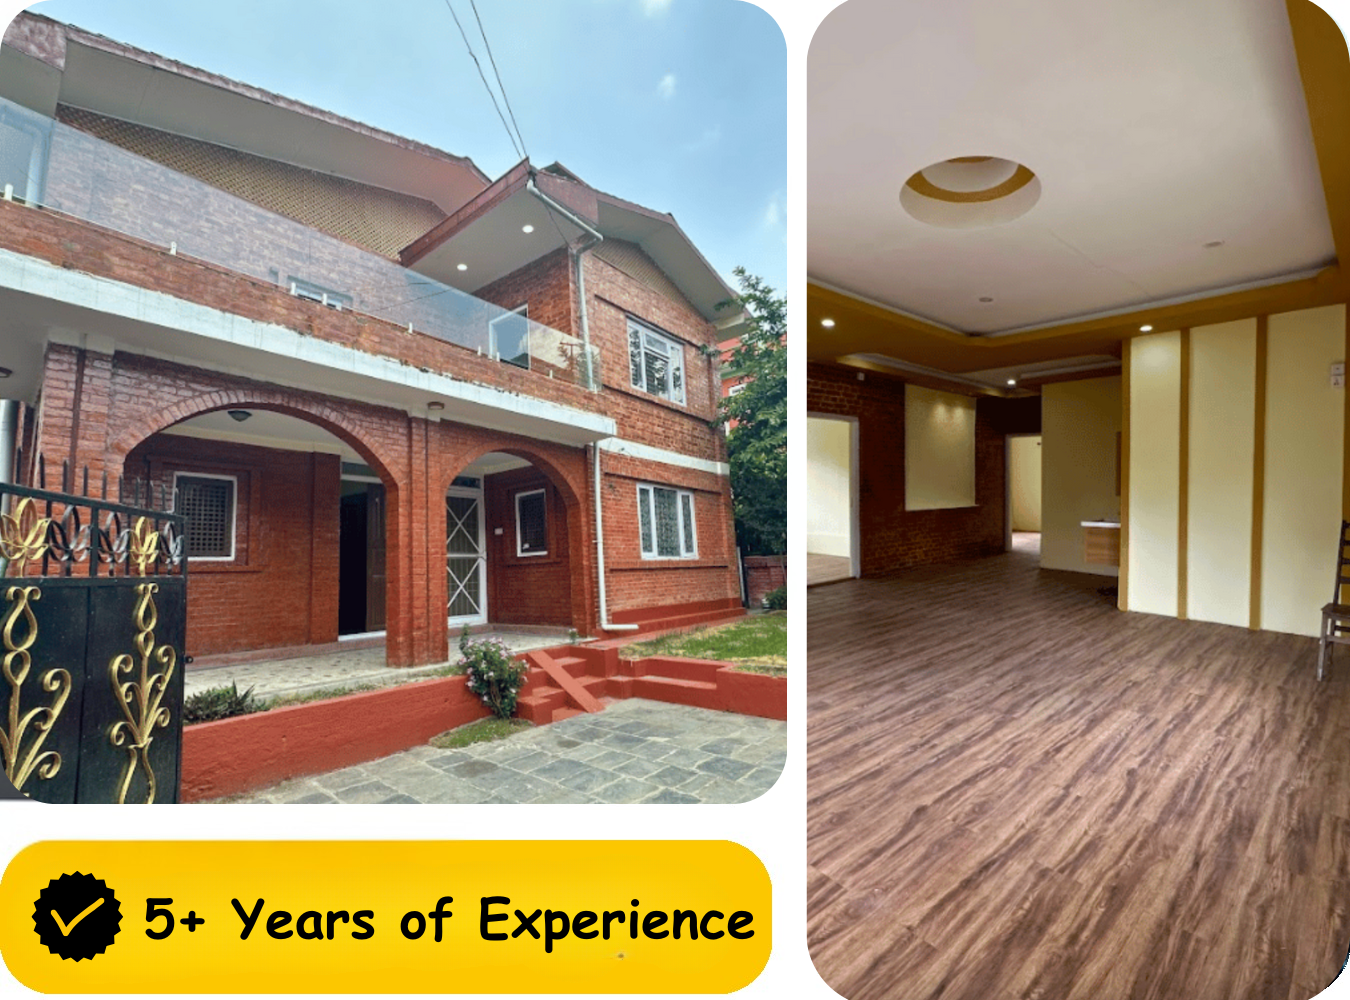
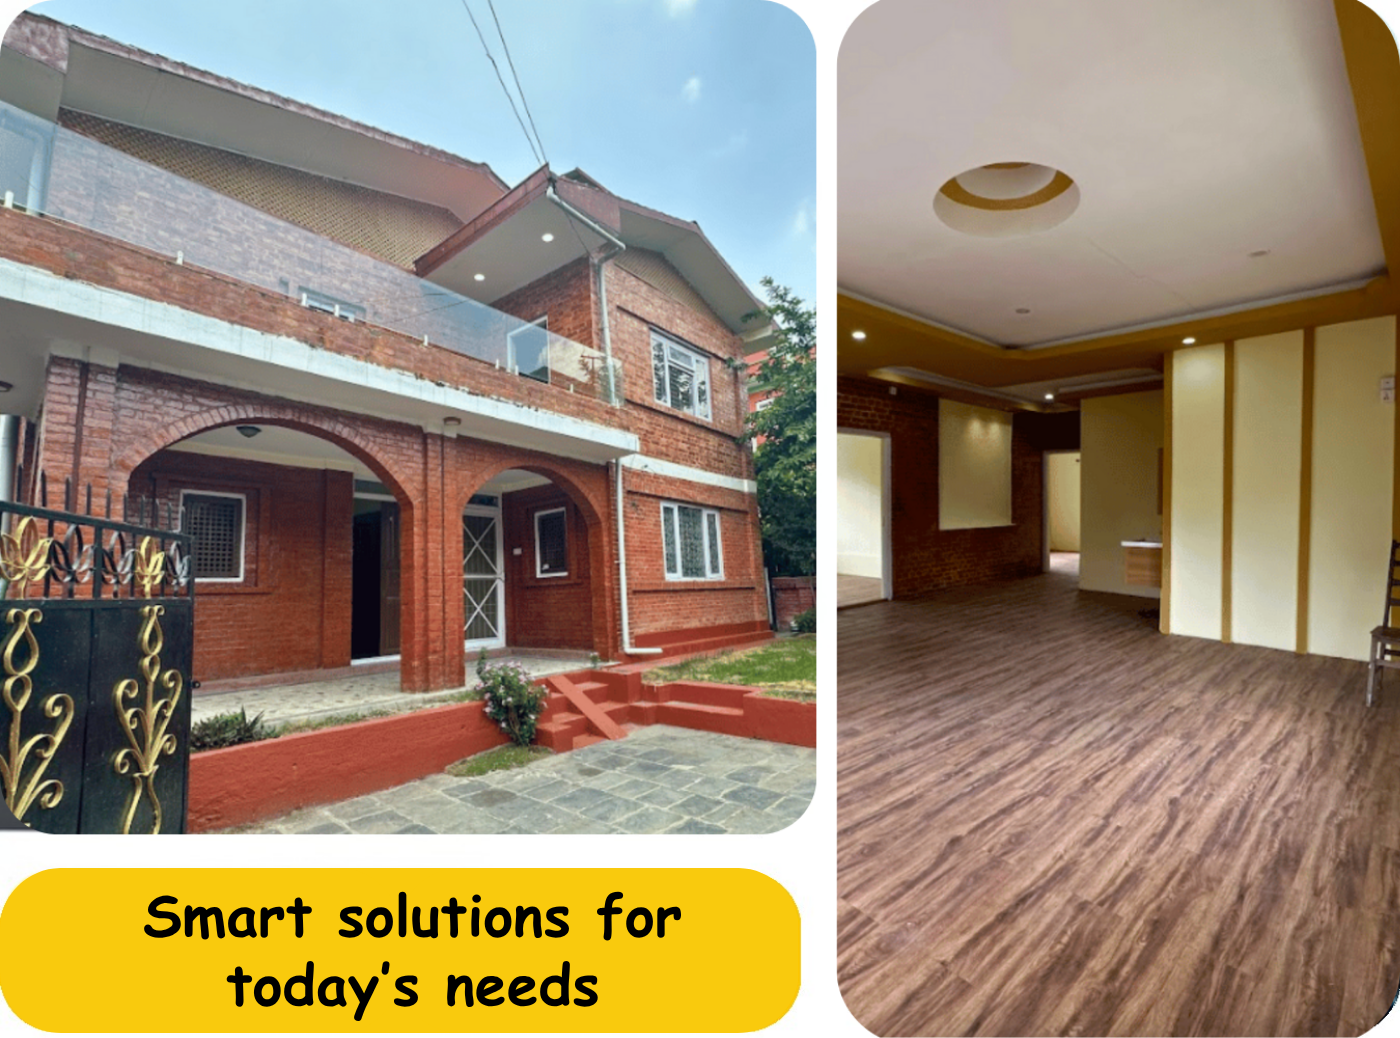
about component refactor

Changed region(s): [[0.0, 0.837, 0.56, 1.0], [0.6222, 0.992, 0.9644, 1.0], [0.9956, 0.031, 1.0, 0.062]]

diff --git a/frontend/src/components/About.jsx b/frontend/src/components/About.jsx
@@ -1,63 +1,83 @@
-import React from 'react'
-import Title from './Title'
-import { assets } from '../assets/data'
+import React from "react";
+import Title from "./Title";
+import { assets } from "../assets/data";
+
+
+
+// features list
+const info = [
+  {
+    num: 1,
+    icon: assets.calendarSecondary,
+    text: "In-app scheduling for property viewings",
+  },
+  {
+    num: 2,
+    icon: assets.graph,
+    text: "100% transparent pricing",
+  },
+  {
+    num: 3,
+    icon: assets.map,
+    text: "User-friendly interface for smooth navigation",
+  },
+  {
+    num: 4,
+    icon: assets.map,
+    text: "Access to off-market properties",
+  },
+];
+
+
+
+// client / raters
+const clients = [
+  { img: assets.client1 },
+  { img: assets.client4 },
+  { img: assets.client1 },
+];
+
+
 
 const About = () => {
   return (
     <section className="max-padd-container py-16 xl:py-28 !pt-36">
       {/* Container */}
       <div className="flex  items-center flex-col lg:flex-row gap-12">
-        {/* Info - Left Side */}
+        {/* Info - Left Side/div */}
         <div className="flex-1">
           <Title
             title1={"Your Trusted Home Rental Partner"}
             title2={"Helping You Every Step of the Way"}
-            para={"Trust, clarity and simplicity are the core of everything we do to make your property journey easy."}
+            para={
+              "Trust, clarity and simplicity are the core of everything we do to make your property journey easy."
+            }
             titleStyles={"mb-10"}
           />
 
-          <div className='flex flex-col gap-6 mt-5'>
-            <div className='flex gap-3'>
-              <img
-                src={assets.calendarSecondary}
-                alt=""
-                width={20}
-              />
-              <p>In-app scheduling for property viewings</p>
-            </div>
-            <div className='flex gap-3'>
-              <img
-                src={assets.graph}
-                alt=""
-                width={20}
-              />
-              <p>100% transparent pricing</p>
-            </div>
-            <div className='flex gap-3'>
-              <img
-                src={assets.map}
-                alt=""
-                width={20}
-              />
-              <p>User-friendly interface for smooth navigation</p>
-            </div>
-            <div className='flex gap-3'>
-              <img
-                src={assets.pound}
-                alt=""
-                width={20}
-              />
-              <p>Access to off-market properties</p>
-            </div>
-          </div>
+          {/* features list */}
+          <div className="flex flex-col gap-6 mt-5">
+            {info.map((data, index) => (
+              <div key={index} className="flex gap-3">
+                <img src={data.icon} alt="" width={20} />
+                <p>{data.text}</p>
+              </div>
+            ))}
+          </div> {/* features list section ends here*/}
+
+
           {/* Rating */}
           <div className="flex items-center divide-x divide-gray-300 mt-11">
             <div className="flex -space-x-3 pr-3">
-              <img src={assets.client1} alt="image" className="w-12 h-12 rounded-full border-2 border-white hover:-translate-y-1 transition z-1" />
-              <img src={assets.client2} alt="image" className="w-12 h-12 rounded-full border-2 border-white hover:-translate-y-1 transition z-1" />
-              <img src={assets.client3} alt="image" className="w-12 h-12 rounded-full border-2 border-white hover:-translate-y-1 transition z-1" />
-              <img src={assets.client4} alt="image" className="w-12 h-12 rounded-full border-2 border-white hover:-translate-y-1 transition z-1" />
+              {clients.map((c) => (
+                <img
+                  src={c.img}
+                  alt="image"
+                  className="w-12 h-12 rounded-full border-2 border-white hover:-translate-y-1 transition z-1"
+                />
+              ))}
             </div>
+
             <div className="pl-3">
               <div className="flex items-center">
                 <img src={assets.star} alt="starIcon" width={17} />
@@ -65,21 +85,28 @@ const About = () => {
                 <img src={assets.star} alt="starIcon" width={17} />
                 <img src={assets.star} alt="starIcon" width={17} />
                 <img src={assets.star} alt="starIcon" width={17} />
-                <p className="text-gray-600 medium-16 ml-2">5.0</p>
+                <p className="text-gray-600 medium-16 ml-2">4.5</p>
               </div>
-              <p className="text-sm text-gray-500">Trusted by <span className="font-medium text-gray-800">5,000+</span> users</p>
+              <p className="text-sm text-gray-500">
+                Trusted by{" "}
+                <span className="font-medium text-gray-800">1,000+</span> users
+              </p>
             </div>
-          </div>
-        </div>
+          </div> {/* rating section ends here */}
+        </div>  {/* left div ends here */}
+
+
+
         {/* Image - Right Side */}
         <div className="flex-1">
-        <div className="relative flex justify-end">
-          <img src={assets.about} alt="aboutImg" className="rounded-3xl" />
+          <div className="relative flex justify-end">
+            <img src={assets.about} alt="aboutImg" className="rounded-3xl" />
+          </div>
         </div>
-        </div>
-      </div>
-    </section>
-  )
-}
 
-export default About
+      </div>   {/* container ends here */}
+    </section>
+  );
+};
+
+export default About;
